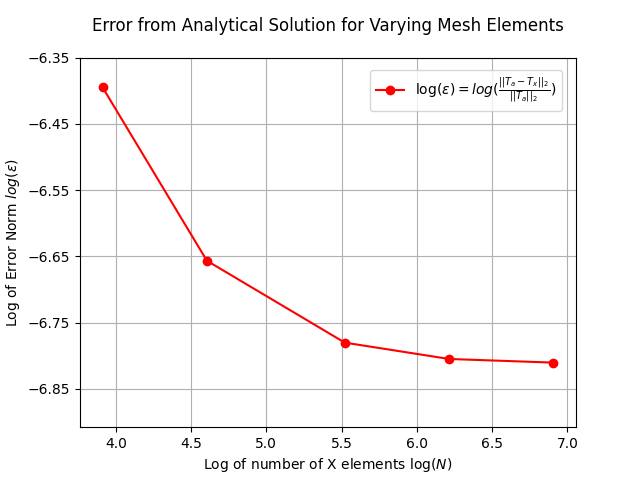
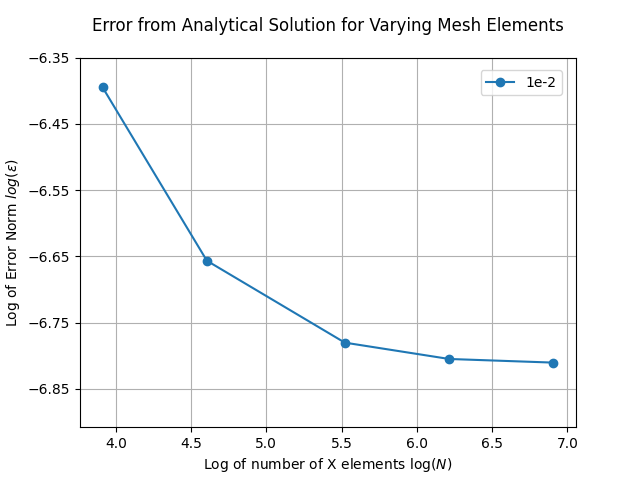
comparison of T/phi and phi_num/phi_analy showing issues. updated error_study.png generation so that it will work once each thresholds' results are included, but still only has 1e-2 while benchmark isn't quite working

diff --git a/threshold_study/visualization/visualize_results.py b/threshold_study/visualization/visualize_results.py
@@ -5,25 +5,31 @@ import pandas as pd
 
 # list mesh element sizes that will be used to iterate through all cases
 n_elems = [50,100,250,500,1000]
+thresholds = ['1e-2'] # TODO run simulation for each threshold and add the necessary csv files to this directory, then run w all thresholds
+# thresholds = ['1e-2','1e-3','1e-4','1e-5','1e-6']
 L = 106.47 # equilibrium length from paper
 P = 1.0e22 # eV/s
+phi0 = 2.5e14 # n/cm^2-s
+q = 1e8 # ev/s
+lam = 0.5*(1+np.sqrt(1+(16*q*q*phi0*phi0)/(P*P)))
 
-# mesh size vs error
-# collect error norm data
-# thresholds = ['1e-2','1e-3','1e-4','1e-5','1e-6']
-thresholds = ['1e-2']
-log_norms = []
+# dictionary of errors for each triger threshold
+error_data = {}
+# collect error norm data organized by threshold
 for t in thresholds:
+    error_data[t] = {}
     for n in n_elems:
-        filename = 'openmc_' + str(n) + '_' + t + '_out.csv'
+        filename = f"openmc_{n}_{t}_out.csv"
         df_norms = pd.read_csv(filename)
         last_val  = df_norms.iloc[len(df_norms)-1,-1]
-        log_norms.append(np.log(last_val))
+        error_data[t][n] =  np.log(last_val)
 
 log_N = np.log(n_elems)
-# plot element size vs computed error
-plt.plot(log_N,log_norms,'-ro',label=r'$\log(\epsilon)=log(\frac{||T_{a}-T_{x}||_{2}}{||T_{a}||_{2}})$')
-plt.yticks(np.log(np.linspace(0.0010,0.0017,6)))
+error_df = pd.DataFrame.from_dict(error_data)
+# plot the error for each threshold against the number of mesh elements
+for t in thresholds:
+    plt.plot(log_N,error_df.loc[:,t],'-o',label=t)
+plt.yticks(np.log(np.linspace(0.0010,0.0017,6))) # TODO may need to adjust once they're all together
 plt.yticks(np.linspace(-6.35,-6.85,6))
 # plt.ticklabel_format(axis='y', style='sci', scilimits=(0,0))
 plt.xlabel('Log of number of X elements $\log(N)$')
@@ -36,9 +42,11 @@ plt.clf()
 
 # lists to contain data for each mesh size
 sp_files = []
-flux_mesh_tallies = []
+raw_flux_mesh_tallies = [] # units from openmc
+flux_mesh_tallies = [] # proper flux units n/cm^2-s
 tallied_global_system_powers = []
-kappa_fission_mesh_tallies = []
+raw_kappa_fission_mesh_tallies = [] # units from openmc
+kappa_fission_mesh_tallies = [] # proper power units ev/cm^3-s
 voxel_volumes = []
 source_strengths = []
 
@@ -48,28 +56,63 @@ for n in n_elems:
     voxel_volumes.append(L/n)
 
 # populate flux, system tallied power, and local kappa fission rates with
-# openmc.Tally objects from each simulation
+# openmc.Tally objects from each simulation (openmc units)
 for f in sp_files:
     sp = openmc.StatePoint(f)
-    flux_mesh_tallies.append(sp.get_tally().get_slice(scores=['flux']))
+    raw_flux_mesh_tallies.append(sp.get_tally().get_slice(scores=['flux']))
     tallied_global_system_powers.append(sp.get_tally(id=2).get_slice(scores=['kappa-fission']))
-    kappa_fission_mesh_tallies.append(sp.get_tally(id=3))
+    raw_kappa_fission_mesh_tallies.append(sp.get_tally(id=3))
 
-# TODO what is going on with tally 1 vs tally 3 in tallies.out
-
-# compute source strengths and convert flux to proper n/cm^2-s units
+# compute source strengths and convert flux to proper n/cm^2-s unit
+# P [=] ev/s , voxel_volume [=] cm^3, power.mean[0], ev/sp
 for power,voxel_volume in zip(tallied_global_system_powers,voxel_volumes):
-    source_strengths.append(P/(voxel_volume*float(power.mean[0])))
+    source_strengths.append(P/(voxel_volume*float(power.mean[0]))) # units of sp/cm^3-s
 
-# # convert to correct units for flux and kappa fission TODO fix syntax
-# for flux,power,ss in zip(flux_mesh_tallies,kappa_fission_mesh_tallies,source_strengths):
-#     flux = flux * ss
-#     power = power * ss
+# convert to correct units for flux and kappa fission
+for flux,power,ss in zip(raw_flux_mesh_tallies,raw_kappa_fission_mesh_tallies,source_strengths):
+    flux_mesh_tallies.append(flux * ss)
+    kappa_fission_mesh_tallies.append(power * ss)
 
-# grab temperature for 50 case
+# PLOTTING T/phi for the 50 and 10000 case
+ratio_50 = []
+ratio_1000 = []
+# generate x coords
+xx_50 = np.linspace(-L/2,L/2,n_elems[0])
+xx_1000 = np.linspace(-L/2,L/2,n_elems[-1])
+# populate data frames
 df_temp_50 = pd.read_csv("openmc_50_out_temp_0004.csv")
 temp_50 = df_temp_50.loc[:,"temp"]
+df_temp_1000 = pd.read_csv("openmc_1000_out_temp_0003.csv")
+temp_1000 = df_temp_1000.loc[:,"temp"]
+# populate ratio vars
+for i in range (len(temp_50)):
+    ratio_50.append(float(temp_50[i]/flux_mesh_tallies[0].mean[i]))
+for i in range (len(temp_1000)):
+    ratio_1000.append(float(temp_1000[i]/flux_mesh_tallies[-1].mean[i]))
+plt.plot(xx_50,ratio_50,'-bo',label="50")
+plt.plot(xx_1000,ratio_1000,'-ro',label="1000")
+plt.xlabel('X coordniate')
+plt.ylabel('$T(x)/\phi(x)$')
+plt.title('temp to flux ratio for each element')
+plt.legend()
+plt.savefig('ratio_T_to_flux.png')
+plt.clf()
 
-# print ratio of temp to flux and see if f is the same or not (i.e. T=f*phi)
-# for i in range (len(temp_50)):
-#     print(temp_50[i])
+num_to_analy = []
+# flux numerical to analytical ratio
+phi = phi0*np.sqrt(1- ((lam - 1)*P*P*np.multiply(xx_50,xx_50))/(L*L*q*q*phi0*phi0))
+for i in range(50):
+    num_to_analy.append(float(flux_mesh_tallies[0].mean[i] / phi[i]))
+plt.plot(xx_50,num_to_analy,'-go',)
+plt.xlabel('X coordniate')
+plt.ylabel('numerical to analytical ratio $\phi(x)$')
+plt.title('Ratio numerical to analytical flux')
+plt.savefig('num_to_analytical_flux.png')
+plt.clf()
+
+# fission_source = []
+# # flux error ratio
+# for i in range(50):
+#     # print(phi[i])
+#     fission_source.append(float(kappa_fission_mesh_tallies[0].mean[i]))
+# # plt.savefig('heat_source.png')
